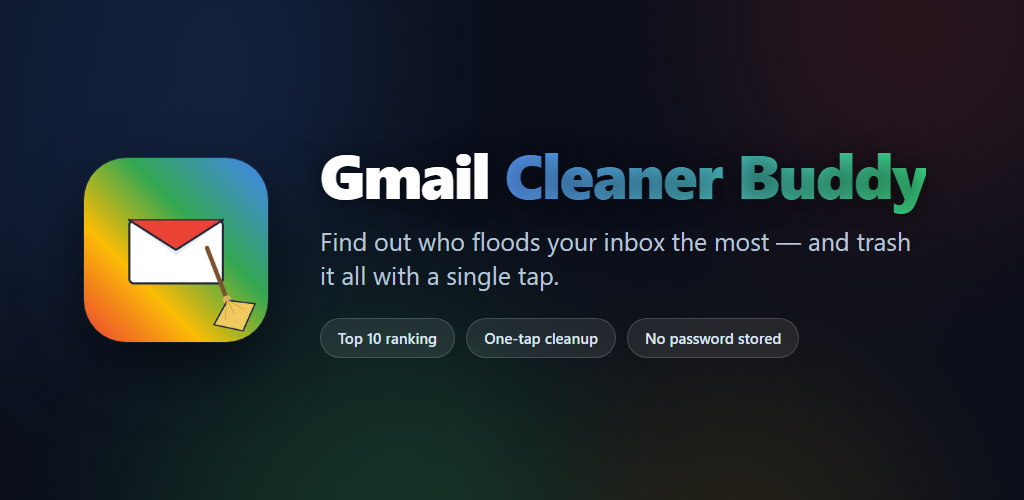
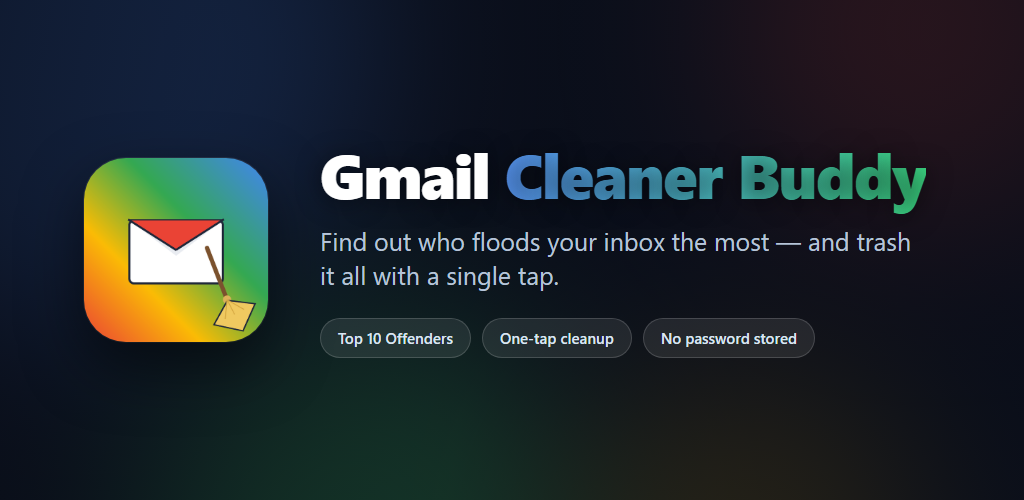
docs: "Top 10 Ofensores" no site, nos feature graphics e ru/zh na ficha
O rótulo da lista mudou no app, mas o site e os feature graphics ainda
vendiam "Ranking Top 10" / "Top 10 ranking" / "Classement Top 10". Cada
idioma passa a usar o termo que o app exibe nele:

  pt  Top 10 Ofensores        it  Top 10 Responsabili
  en  Top 10 Offenders        ru  Топ-10 нарушителей
  es  Top 10 Infractores      zh  前 10 名骚扰发件人
  fr  Top 10 des Indésirables

- index.html: hero, passo 3, recurso 1 e o alt da terceira captura, nos 7
  idiomas — mais a marcação estática, que é o que aparece antes do JS rodar.
- store/feature-graphic.html: primeiro badge dos 7 gráficos, regerados.
  Conferido que "Top 10 des Indésirables" e "前 10 名骚扰发件人", os dois
  mais longos, ainda cabem na linha de badges de 1024px.
- store/play-listing.md: ganhou russo e chinês. Faltava a ficha nesses dois
  idiomas, embora o app e os feature graphics já os tivessem.

Limites do Google conferidos em todas as seções. O mais apertado continua
sendo a descrição curta em francês, com 80/80 exatos.

Changed region(s): [[0.375, 0.63, 0.7812, 0.72]]

diff --git a/index.html b/index.html
@@ -132,7 +132,7 @@
 
   <div class="hero">
     <h1 data-i18n="hero_title">Discover who's flooding your Gmail</h1>
-    <p class="lead" data-i18n="hero_lead">Scan your inbox, see the Top 10 offenders ranking, and move all of their emails to the trash with one tap — right from your phone, no server required.</p>
+    <p class="lead" data-i18n="hero_lead">Scan your inbox, see the Top 10 Offenders ranking, and move all of their emails to the trash with one tap — right from your phone, no server required.</p>
     <div class="cta-row">
       <a class="btn btn-primary" href="https://play.google.com/store/apps/details?id=com.mbastida.gmailcleanerbuddy" target="_blank" rel="noopener" data-i18n="btn_play">▶ Get it on Google Play</a>
     </div>
@@ -143,7 +143,7 @@
     <div class="shots">
       <img src="store/screenshots/01-login.png" data-i18n-alt="img1_alt" alt="Login screen">
       <img src="store/screenshots/02-analise.png" data-i18n-alt="img2_alt" alt="Inbox analysis screen">
-      <img src="store/screenshots/03-ranking.png" data-i18n-alt="img3_alt" alt="Top senders ranking screen">
+      <img src="store/screenshots/03-ranking.png" data-i18n-alt="img3_alt" alt="Top 10 Offenders screen">
     </div>
   </section>
 
@@ -163,7 +163,7 @@
       <div class="step">
         <div class="n">3</div>
         <h3 data-i18n="step3_t">See the ranking</h3>
-        <p data-i18n="step3_d">Top 10 senders flooding your inbox, with category and estimated size.</p>
+        <p data-i18n="step3_d">Top 10 Offenders — the senders flooding your inbox, with category and estimated size.</p>
       </div>
       <div class="step">
         <div class="n">4</div>
@@ -176,7 +176,7 @@
   <section>
     <h2 data-i18n="sec_features">Features</h2>
     <div class="features">
-      <div class="feature"><strong data-i18n="feat1_t">Top 10 ranking</strong><span data-i18n="feat1_d">of the senders flooding your inbox</span></div>
+      <div class="feature"><strong data-i18n="feat1_t">Top 10 Offenders</strong><span data-i18n="feat1_d">the senders flooding your inbox</span></div>
       <div class="feature"><strong data-i18n="feat2_t">Exact count</strong><span data-i18n="feat2_d">of emails per sender, not just a sample</span></div>
       <div class="feature"><strong data-i18n="feat3_t">Bulk cleanup</strong><span data-i18n="feat3_d">with one tap, no opening emails one by one</span></div>
       <div class="feature"><strong data-i18n="feat4_t">Automatic categories</strong><span data-i18n="feat4_d">social media, shopping, news and more</span></div>
@@ -229,17 +229,17 @@ const I18N = {
   en: {
     nav_screenshots: 'Screenshots', nav_privacy: 'Privacy',
     hero_title: "Discover who's flooding your Gmail",
-    hero_lead: 'Scan your inbox, see the Top 10 offenders ranking, and move all of their emails to the trash with one tap — right from your phone, no server required.',
+    hero_lead: 'Scan your inbox, see the Top 10 Offenders ranking, and move all of their emails to the trash with one tap — right from your phone, no server required.',
     btn_play: '▶ Get it on Google Play',
     sec_screenshots: 'App screenshots',
-    img1_alt: 'Login screen', img2_alt: 'Inbox analysis screen', img3_alt: 'Top senders ranking screen',
+    img1_alt: 'Login screen', img2_alt: 'Inbox analysis screen', img3_alt: 'Top 10 Offenders screen',
     sec_how: 'How it works',
     step1_t: 'Connect your account', step1_d: "Official Google sign-in (OAuth2), right in Android's native picker — the app never sees your password.",
     step2_t: 'Scan your inbox', step2_d: 'The app counts exactly how many emails each sender sent you.',
-    step3_t: 'See the ranking', step3_d: 'Top 10 senders flooding your inbox, with category and estimated size.',
+    step3_t: 'See the ranking', step3_d: 'Top 10 Offenders — the senders flooding your inbox, with category and estimated size.',
     step4_t: 'Clean with one tap', step4_d: 'Send a sender’s emails — or the whole Top 10 — to the trash at once.',
     sec_features: 'Features',
-    feat1_t: 'Top 10 ranking', feat1_d: 'of the senders flooding your inbox',
+    feat1_t: 'Top 10 Offenders', feat1_d: 'the senders flooding your inbox',
     feat2_t: 'Exact count', feat2_d: 'of emails per sender, not just a sample',
     feat3_t: 'Bulk cleanup', feat3_d: 'with one tap, no opening emails one by one',
     feat4_t: 'Automatic categories', feat4_d: 'social media, shopping, news and more',
@@ -256,17 +256,17 @@ const I18N = {
   pt: {
     nav_screenshots: 'Telas', nav_privacy: 'Privacidade',
     hero_title: 'Descubra quem mais lota o seu Gmail',
-    hero_lead: 'Analise sua caixa de entrada, veja o ranking dos Top 10 ofensores e mande todos os e-mails deles para a lixeira com um toque — direto do celular, sem servidor.',
+    hero_lead: 'Analise sua caixa de entrada, veja o ranking Top 10 Ofensores e mande todos os e-mails deles para a lixeira com um toque — direto do celular, sem servidor.',
     btn_play: '▶ Disponível no Google Play',
     sec_screenshots: 'Telas do app',
-    img1_alt: 'Tela de login', img2_alt: 'Tela de análise da caixa', img3_alt: 'Tela do ranking de remetentes',
+    img1_alt: 'Tela de login', img2_alt: 'Tela de análise da caixa', img3_alt: 'Tela do Top 10 Ofensores',
     sec_how: 'Como funciona',
     step1_t: 'Conecte sua conta', step1_d: 'Login oficial do Google (OAuth2), direto na caixa nativa do Android — o app nunca vê sua senha.',
     step2_t: 'Analise a caixa', step2_d: 'O app conta com precisão quantos e-mails cada remetente enviou para você.',
-    step3_t: 'Veja o ranking', step3_d: 'Top 10 dos que mais lotam sua caixa, com categoria e volume estimado.',
+    step3_t: 'Veja o ranking', step3_d: 'Top 10 Ofensores: os que mais lotam sua caixa, com categoria e volume estimado.',
     step4_t: 'Limpe com um toque', step4_d: 'Mande os e-mails de um remetente — ou o Top 10 inteiro — para a lixeira de uma vez.',
     sec_features: 'Recursos',
-    feat1_t: 'Ranking Top 10', feat1_d: 'dos remetentes que mais lotam sua caixa',
+    feat1_t: 'Top 10 Ofensores', feat1_d: 'os remetentes que mais lotam sua caixa',
     feat2_t: 'Contagem exata', feat2_d: 'de e-mails por remetente, não só uma amostra',
     feat3_t: 'Limpeza em massa', feat3_d: 'com um toque, sem abrir e-mail por e-mail',
     feat4_t: 'Categorias automáticas', feat4_d: 'redes sociais, compras, notícias e mais',
@@ -283,17 +283,17 @@ const I18N = {
   es: {
     nav_screenshots: 'Capturas', nav_privacy: 'Privacidad',
     hero_title: 'Descubre quién llena más tu Gmail',
-    hero_lead: 'Analiza tu bandeja de entrada, mira el ranking de los 10 principales infractores y envía todos sus correos a la papelera con un toque — directo desde tu celular, sin servidor.',
+    hero_lead: 'Analiza tu bandeja de entrada, mira el ranking Top 10 Infractores y envía todos sus correos a la papelera con un toque — directo desde tu celular, sin servidor.',
     btn_play: '▶ Disponible en Google Play',
     sec_screenshots: 'Capturas de la app',
-    img1_alt: 'Pantalla de inicio de sesión', img2_alt: 'Pantalla de análisis de la bandeja', img3_alt: 'Pantalla del ranking de remitentes',
+    img1_alt: 'Pantalla de inicio de sesión', img2_alt: 'Pantalla de análisis de la bandeja', img3_alt: 'Pantalla del Top 10 Infractores',
     sec_how: 'Cómo funciona',
     step1_t: 'Conecta tu cuenta', step1_d: 'Inicio de sesión oficial de Google (OAuth2), directo en el selector nativo de Android — la app nunca ve tu contraseña.',
     step2_t: 'Analiza tu bandeja', step2_d: 'La app cuenta con precisión cuántos correos te envió cada remitente.',
-    step3_t: 'Mira el ranking', step3_d: 'Top 10 de los que más llenan tu bandeja, con categoría y volumen estimado.',
+    step3_t: 'Mira el ranking', step3_d: 'Top 10 Infractores: los que más llenan tu bandeja, con categoría y volumen estimado.',
     step4_t: 'Limpia con un toque', step4_d: 'Envía los correos de un remitente — o todo el Top 10 — a la papelera de una vez.',
     sec_features: 'Funciones',
-    feat1_t: 'Ranking Top 10', feat1_d: 'de los remitentes que más llenan tu bandeja',
+    feat1_t: 'Top 10 Infractores', feat1_d: 'los remitentes que más llenan tu bandeja',
     feat2_t: 'Conteo exacto', feat2_d: 'de correos por remitente, no solo una muestra',
     feat3_t: 'Limpieza masiva', feat3_d: 'con un toque, sin abrir correo por correo',
     feat4_t: 'Categorías automáticas', feat4_d: 'redes sociales, compras, noticias y más',
@@ -310,17 +310,17 @@ const I18N = {
   fr: {
     nav_screenshots: 'Aperçu', nav_privacy: 'Confidentialité',
     hero_title: 'Découvrez qui encombre le plus votre Gmail',
-    hero_lead: 'Analysez votre boîte de réception, consultez le classement des 10 principaux expéditeurs et déplacez tous leurs e-mails vers la corbeille en un geste — directement depuis votre téléphone, sans serveur.',
+    hero_lead: 'Analysez votre boîte de réception, consultez le classement Top 10 des Indésirables et déplacez tous leurs e-mails vers la corbeille en un geste — directement depuis votre téléphone, sans serveur.',
     btn_play: '▶ Disponible sur Google Play',
     sec_screenshots: "Aperçu de l'app",
-    img1_alt: 'Écran de connexion', img2_alt: "Écran d'analyse de la boîte", img3_alt: 'Écran du classement des expéditeurs',
+    img1_alt: 'Écran de connexion', img2_alt: "Écran d'analyse de la boîte", img3_alt: 'Écran du Top 10 des Indésirables',
     sec_how: 'Comment ça marche',
     step1_t: 'Connectez votre compte', step1_d: "Connexion officielle Google (OAuth2), directement dans le sélecteur natif d'Android — l'app ne voit jamais votre mot de passe.",
     step2_t: 'Analysez votre boîte', step2_d: "L'app compte précisément combien d'e-mails chaque expéditeur vous a envoyés.",
-    step3_t: 'Consultez le classement', step3_d: 'Top 10 des expéditeurs qui encombrent votre boîte, avec catégorie et volume estimé.',
+    step3_t: 'Consultez le classement', step3_d: 'Top 10 des Indésirables : les expéditeurs qui encombrent votre boîte, avec catégorie et volume estimé.',
     step4_t: 'Nettoyez en un geste', step4_d: "Envoyez les e-mails d'un expéditeur — ou tout le Top 10 — à la corbeille d'un coup.",
     sec_features: 'Fonctionnalités',
-    feat1_t: 'Classement Top 10', feat1_d: 'des expéditeurs qui encombrent votre boîte',
+    feat1_t: 'Top 10 des Indésirables', feat1_d: 'les expéditeurs qui encombrent votre boîte',
     feat2_t: 'Comptage exact', feat2_d: "des e-mails par expéditeur, pas seulement un échantillon",
     feat3_t: 'Nettoyage groupé', feat3_d: 'en un geste, sans ouvrir les e-mails un par un',
     feat4_t: 'Catégories automatiques', feat4_d: 'réseaux sociaux, achats, actualités et plus',
@@ -337,17 +337,17 @@ const I18N = {
   it: {
     nav_screenshots: 'Schermate', nav_privacy: 'Privacy',
     hero_title: 'Scopri chi intasa di più il tuo Gmail',
-    hero_lead: 'Analizza la tua casella, guarda la classifica dei Top 10 responsabili e sposta tutte le loro email nel cestino con un tocco — direttamente dal telefono, senza server.',
+    hero_lead: 'Analizza la tua casella, guarda la classifica Top 10 Responsabili e sposta tutte le loro email nel cestino con un tocco — direttamente dal telefono, senza server.',
     btn_play: '▶ Disponibile su Google Play',
     sec_screenshots: "Schermate dell'app",
-    img1_alt: 'Schermata di accesso', img2_alt: 'Schermata di analisi della casella', img3_alt: 'Schermata della classifica mittenti',
+    img1_alt: 'Schermata di accesso', img2_alt: 'Schermata di analisi della casella', img3_alt: 'Schermata del Top 10 Responsabili',
     sec_how: 'Come funziona',
     step1_t: 'Collega il tuo account', step1_d: "Accesso ufficiale Google (OAuth2), direttamente nel selettore nativo di Android — l'app non vede mai la tua password.",
     step2_t: 'Analizza la casella', step2_d: "L'app conta con precisione quante email ha inviato ciascun mittente.",
-    step3_t: 'Guarda la classifica', step3_d: 'Top 10 dei mittenti che intasano di più la casella, con categoria e volume stimato.',
+    step3_t: 'Guarda la classifica', step3_d: 'Top 10 Responsabili: i mittenti che intasano di più la casella, con categoria e volume stimato.',
     step4_t: 'Pulisci con un tocco', step4_d: "Sposta le email di un mittente — o l'intera Top 10 — nel cestino in un colpo solo.",
     sec_features: 'Funzionalità',
-    feat1_t: 'Classifica Top 10', feat1_d: 'dei mittenti che intasano di più la casella',
+    feat1_t: 'Top 10 Responsabili', feat1_d: 'i mittenti che intasano di più la casella',
     feat2_t: 'Conteggio esatto', feat2_d: 'delle email per mittente, non solo un campione',
     feat3_t: 'Pulizia in blocco', feat3_d: 'con un tocco, senza aprire le email una per una',
     feat4_t: 'Categorie automatiche', feat4_d: 'social, acquisti, notizie e altro',
@@ -367,14 +367,14 @@ const I18N = {
     hero_lead: 'Проанализируйте почтовый ящик, посмотрите рейтинг Топ-10 нарушителей и переместите все их письма в корзину одним касанием — прямо с телефона, без сервера.',
     btn_play: '▶ Доступно в Google Play',
     sec_screenshots: 'Скриншоты приложения',
-    img1_alt: 'Экран входа', img2_alt: 'Экран анализа ящика', img3_alt: 'Экран рейтинга отправителей',
+    img1_alt: 'Экран входа', img2_alt: 'Экран анализа ящика', img3_alt: 'Экран «Топ-10 нарушителей»',
     sec_how: 'Как это работает',
     step1_t: 'Подключите аккаунт', step1_d: 'Официальный вход через Google (OAuth2) прямо в нативном выборе Android — приложение никогда не видит ваш пароль.',
     step2_t: 'Проанализируйте ящик', step2_d: 'Приложение точно подсчитывает, сколько писем отправил каждый отправитель.',
-    step3_t: 'Посмотрите рейтинг', step3_d: 'Топ-10 отправителей, забивающих ваш ящик, с категорией и примерным объёмом.',
+    step3_t: 'Посмотрите рейтинг', step3_d: 'Топ-10 нарушителей: отправители, забивающие ваш ящик, с категорией и примерным объёмом.',
     step4_t: 'Очистите одним касанием', step4_d: 'Отправьте письма одного отправителя — или весь Топ-10 — в корзину сразу.',
     sec_features: 'Возможности',
-    feat1_t: 'Рейтинг Топ-10', feat1_d: 'отправителей, забивающих ваш ящик',
+    feat1_t: 'Топ-10 нарушителей', feat1_d: 'отправители, забивающие ваш ящик',
     feat2_t: 'Точный подсчёт', feat2_d: 'писем по каждому отправителю, а не просто выборка',
     feat3_t: 'Массовая очистка', feat3_d: 'одним касанием, без открытия писем по одному',
     feat4_t: 'Автоматические категории', feat4_d: 'соцсети, покупки, новости и другое',
@@ -391,17 +391,17 @@ const I18N = {
   zh: {
     nav_screenshots: '截图', nav_privacy: '隐私',
     hero_title: '看看谁在塞满你的 Gmail',
-    hero_lead: '分析你的收件箱，查看前 10 名违规发件人排行榜，一键将他们的所有邮件移至垃圾箱 —— 直接在手机上完成，无需服务器。',
+    hero_lead: '分析你的收件箱，查看前 10 名骚扰发件人排行榜，一键将他们的所有邮件移至垃圾箱 —— 直接在手机上完成，无需服务器。',
     btn_play: '▶ 前往 Google Play 下载',
     sec_screenshots: '应用截图',
-    img1_alt: '登录界面', img2_alt: '收件箱分析界面', img3_alt: '发件人排行榜界面',
+    img1_alt: '登录界面', img2_alt: '收件箱分析界面', img3_alt: '前 10 名骚扰发件人界面',
     sec_how: '工作原理',
     step1_t: '连接你的账号', step1_d: '官方 Google 登录（OAuth2），直接使用 Android 原生选择器 —— 应用绝不会看到你的密码。',
     step2_t: '分析收件箱', step2_d: '应用精确统计每个发件人发送给你的邮件数量。',
-    step3_t: '查看排行榜', step3_d: '占用收件箱最多的前 10 名发件人，附带分类和预估容量。',
+    step3_t: '查看排行榜', step3_d: '前 10 名骚扰发件人，附带分类和预估容量。',
     step4_t: '一键清理', step4_d: '一次性将某个发件人的邮件 —— 或整个前 10 名 —— 移至垃圾箱。',
     sec_features: '功能',
-    feat1_t: '前 10 名排行榜', feat1_d: '占用收件箱最多的发件人',
+    feat1_t: '前 10 名骚扰发件人', feat1_d: '占用收件箱最多的发件人',
     feat2_t: '精确计数', feat2_d: '按发件人统计邮件数量，而不仅仅是抽样',
     feat3_t: '批量清理', feat3_d: '一键完成，无需逐封打开邮件',
     feat4_t: '自动分类', feat4_d: '社交媒体、购物、新闻等',

diff --git a/store/feature-graphic.html b/store/feature-graphic.html
@@ -77,31 +77,31 @@
   var COPY = {
     'pt-BR': {
       tag: 'Descubra quem mais lota sua caixa de entrada — e mande tudo pra lixeira com um toque.',
-      badges: ['Ranking Top 10', 'Limpeza em 1 toque', 'Sem salvar senha']
+      badges: ['Top 10 Ofensores', 'Limpeza em 1 toque', 'Sem salvar senha']
     },
     'en-US': {
       tag: 'Find out who floods your inbox the most — and trash it all with a single tap.',
-      badges: ['Top 10 ranking', 'One-tap cleanup', 'No password stored']
+      badges: ['Top 10 Offenders', 'One-tap cleanup', 'No password stored']
     },
     'es-ES': {
       tag: 'Descubre quién llena más tu bandeja — y envíalo todo a la papelera con un toque.',
-      badges: ['Ranking Top 10', 'Limpieza en 1 toque', 'Sin guardar contraseña']
+      badges: ['Top 10 Infractores', 'Limpieza en 1 toque', 'Sin guardar contraseña']
     },
     'fr-FR': {
       tag: 'Découvrez qui encombre le plus votre boîte — et videz tout en un seul appui.',
-      badges: ['Classement Top 10', 'Nettoyage en 1 appui', 'Aucun mot de passe']
+      badges: ['Top 10 des Indésirables', 'Nettoyage en 1 appui', 'Aucun mot de passe']
     },
     'it-IT': {
       tag: 'Scopri chi intasa di più la tua casella — e svuota tutto con un solo tocco.',
-      badges: ['Classifica Top 10', 'Pulizia in 1 tocco', 'Nessuna password salvata']
+      badges: ['Top 10 Responsabili', 'Pulizia in 1 tocco', 'Nessuna password salvata']
     },
     'ru-RU': {
       tag: 'Узнайте, кто больше всего забивает ваш ящик — и очистите всё одним касанием.',
-      badges: ['Рейтинг Топ-10', 'Очистка в 1 касание', 'Пароль не сохраняется']
+      badges: ['Топ-10 нарушителей', 'Очистка в 1 касание', 'Пароль не сохраняется']
     },
     'zh-CN': {
       tag: '看看谁最占用你的收件箱 —— 一键将其全部清空。',
-      badges: ['前 10 名排行榜', '一键清理', '不保存密码']
+      badges: ['前 10 名骚扰发件人', '一键清理', '不保存密码']
     }
   };
 

diff --git a/store/play-listing.md b/store/play-listing.md
@@ -185,3 +185,87 @@ FONCTIONNALITÉS
 
 Reprenez le contrôle de votre boîte de réception. Téléchargez Gmail Cleaner Buddy.
 ```
+
+---
+
+## 🇷🇺 Русский (ru-RU)
+
+**Название приложения** (≤30)
+```
+Gmail Cleaner Buddy
+```
+
+**Краткое описание** (≤80)
+```
+Узнайте, кто забивает ваш Gmail, и отправьте этих отправителей в корзину.
+```
+
+**Полное описание** (≤4000)
+```
+Gmail Cleaner Buddy находит отправителей, которые больше всего забивают ваш почтовый ящик, и позволяет очистить их одним касанием.
+
+Устали от тысяч рассылок, промоакций и уведомлений? Приложение анализирует ваш аккаунт, составляет рейтинг «Топ-10 нарушителей» — адреса, которые чаще всего присылают вам повторяющиеся письма, — и разом перемещает все их письма в корзину.
+
+КАК ЭТО РАБОТАЕТ
+• Подключите аккаунт через официальный вход Google (OAuth2).
+• Приложение анализирует ящик и точно подсчитывает, сколько писем отправил каждый отправитель.
+• Посмотрите Топ-10 нарушителей с категорией и объёмом.
+• Коснитесь, чтобы отправить в корзину все письма одного отправителя — или весь Топ-10 сразу.
+
+КОНФИДЕНЦИАЛЬНОСТЬ ПРЕЖДЕ ВСЕГО
+• Официальный вход Google — приложение никогда не видит ваш пароль.
+• На устройстве не сохраняются учётные данные: доступ живёт только в памяти и истекает примерно через 1 час.
+• Письма перемещаются в собственную Корзину Gmail (восстановимы 30 дней) — ничего не удаляется навсегда.
+• Приложение не читает содержимое сообщений: для рейтинга используется только адрес отправителя.
+
+ВОЗМОЖНОСТИ
+• Топ-10 нарушителей: отправители, забивающие ваш ящик
+• Точный подсчёт писем по каждому отправителю
+• Массовая очистка одним касанием
+• Автоматические категории (соцсети, покупки, новости и другое)
+• Интерфейс на португальском, английском, испанском, французском, итальянском, русском и китайском
+
+Верните контроль над почтовым ящиком. Скачайте Gmail Cleaner Buddy.
+```
+
+---
+
+## 🇨🇳 中文 (zh-CN)
+
+**应用名称** (≤30)
+```
+Gmail Cleaner Buddy
+```
+
+**简短说明** (≤80)
+```
+找出谁在塞满你的 Gmail，一键把这些发件人的邮件移入垃圾箱。
+```
+
+**完整说明** (≤4000)
+```
+Gmail Cleaner Buddy 找出最占用你收件箱的发件人，让你一键清理。
+
+厌倦了成千上万的订阅邮件、促销和通知？应用会分析你的账号，生成「前 10 名骚扰发件人」排行榜——那些反复给你发信最多的地址——并一次性把他们的所有邮件移入垃圾箱。
+
+工作原理
+• 使用官方 Google 登录（OAuth2）连接你的账号。
+• 应用分析你的收件箱，精确统计每个发件人发送了多少封邮件。
+• 查看前 10 名骚扰发件人，附带分类和容量。
+• 轻点即可将某个发件人的全部邮件移入垃圾箱——或一次清理整个前 10 名。
+
+隐私优先
+• 官方 Google 登录——应用绝不会看到你的密码。
+• 设备上不保存任何凭据：访问令牌只存在于内存中，约 1 小时后过期。
+• 邮件会移入 Gmail 自己的垃圾箱（30 天内可恢复）——不会永久删除任何内容。
+• 应用不会读取邮件内容：排行榜只使用发件人地址。
+
+功能
+• 前 10 名骚扰发件人：最占用你收件箱的发件人
+• 按发件人精确统计邮件数量
+• 一键批量清理
+• 自动分类（社交媒体、购物、新闻等）
+• 支持葡萄牙语、英语、西班牙语、法语、意大利语、俄语和中文界面
+
+夺回收件箱的控制权。立即下载 Gmail Cleaner Buddy。
+```
